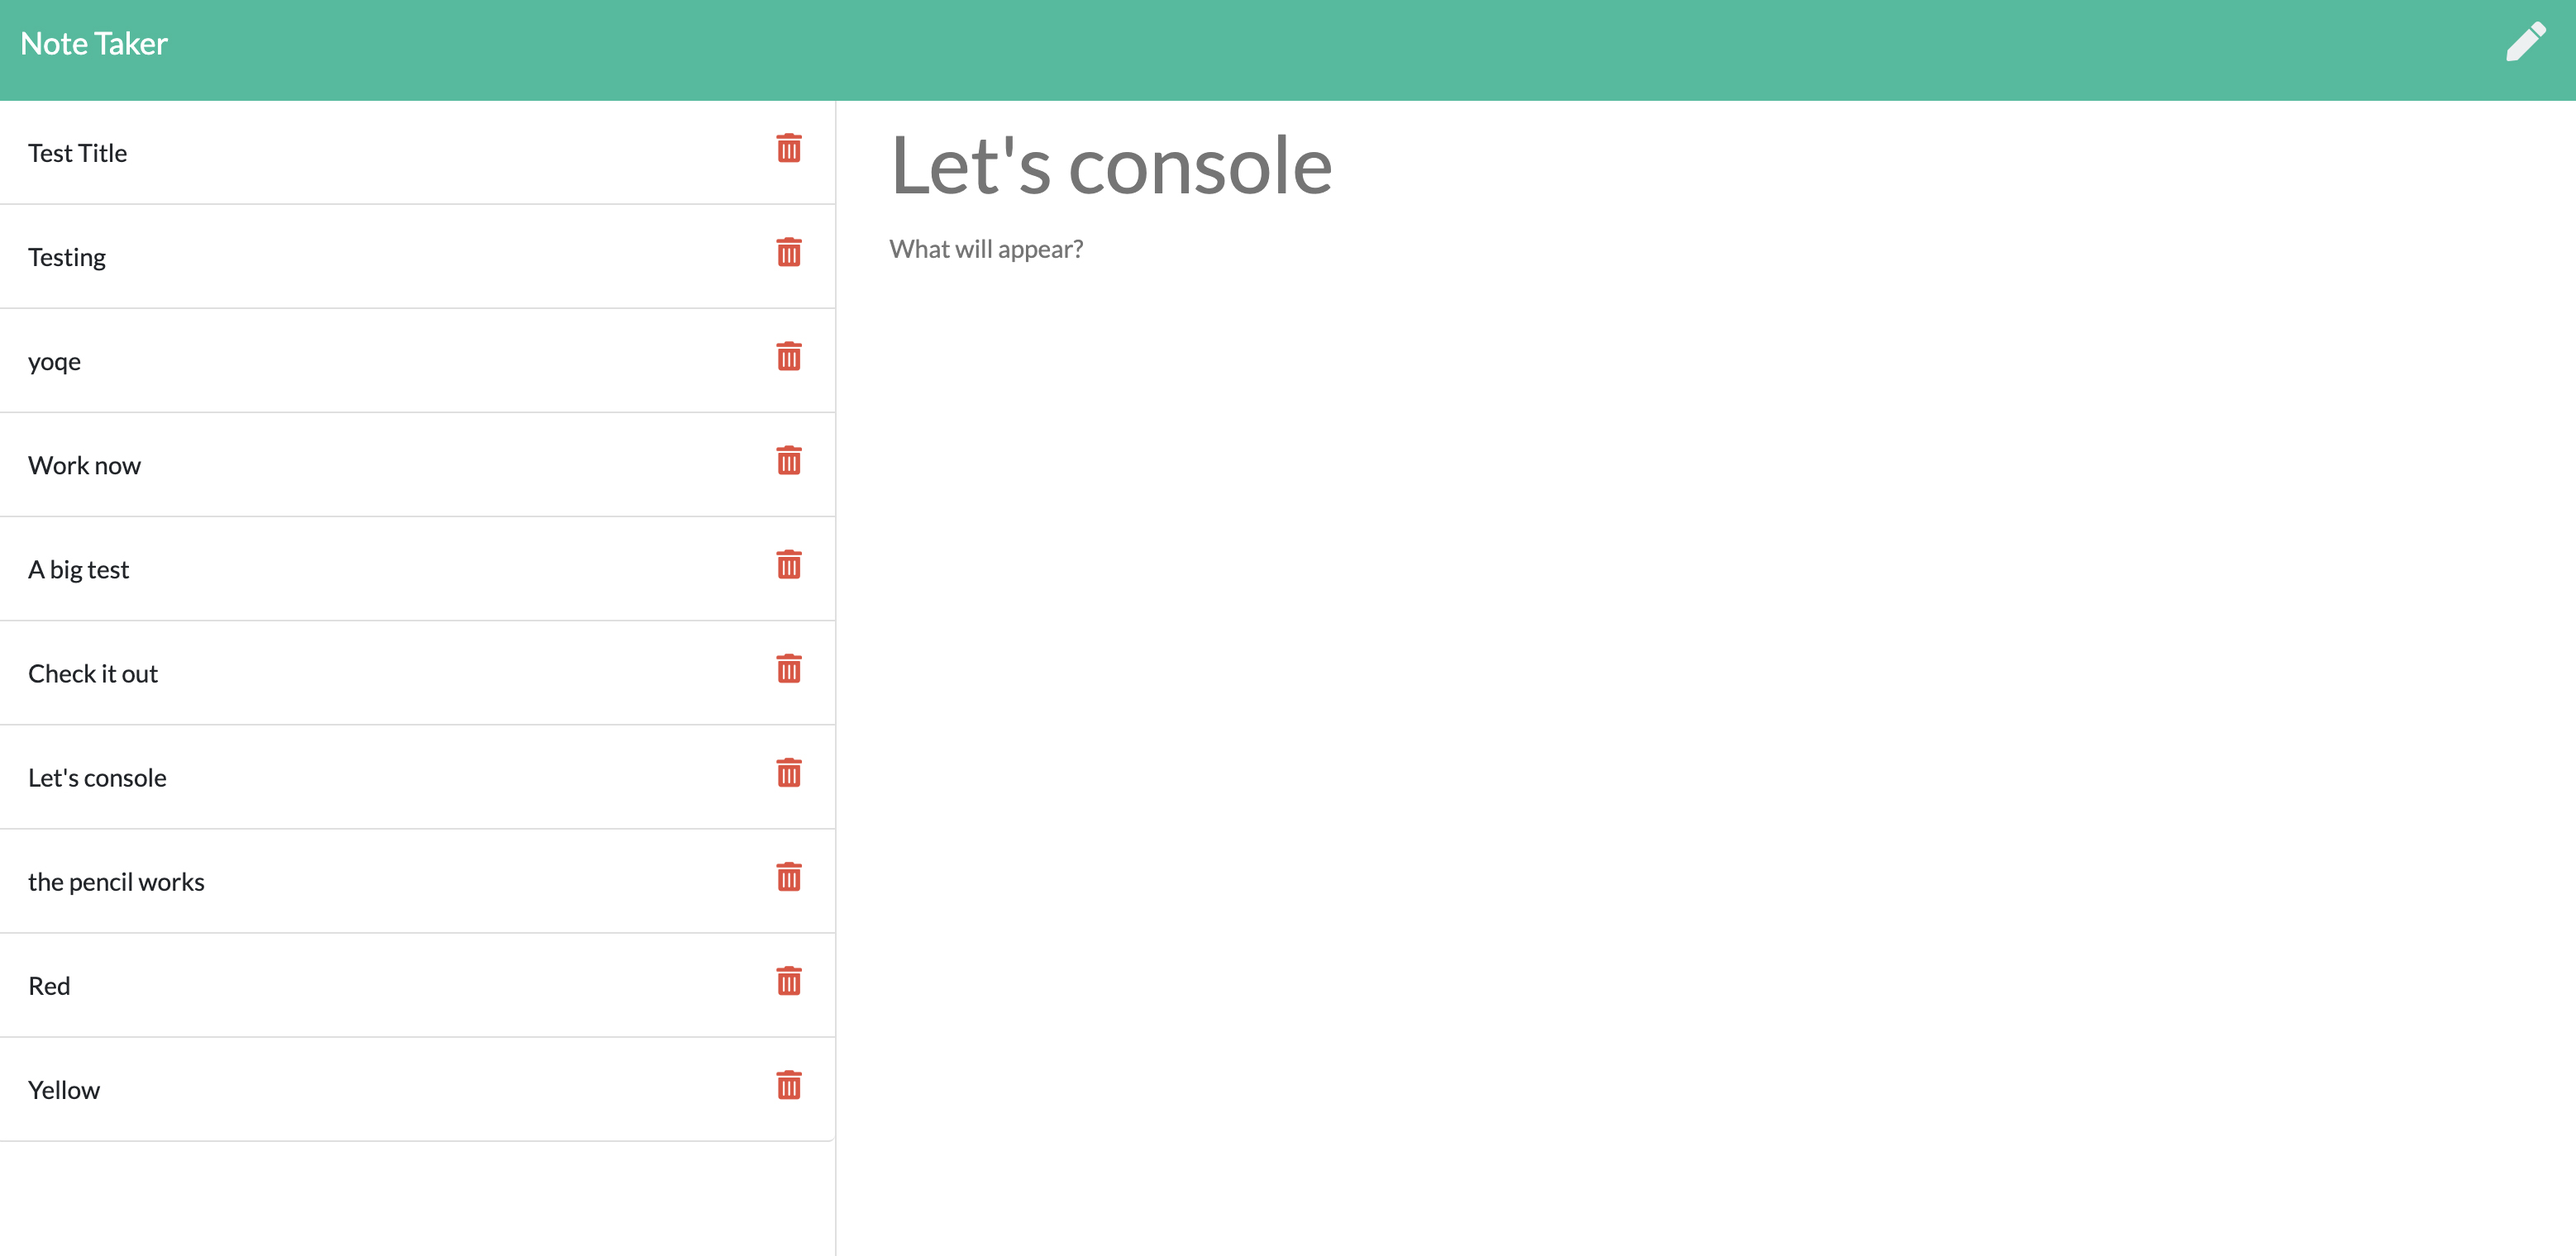
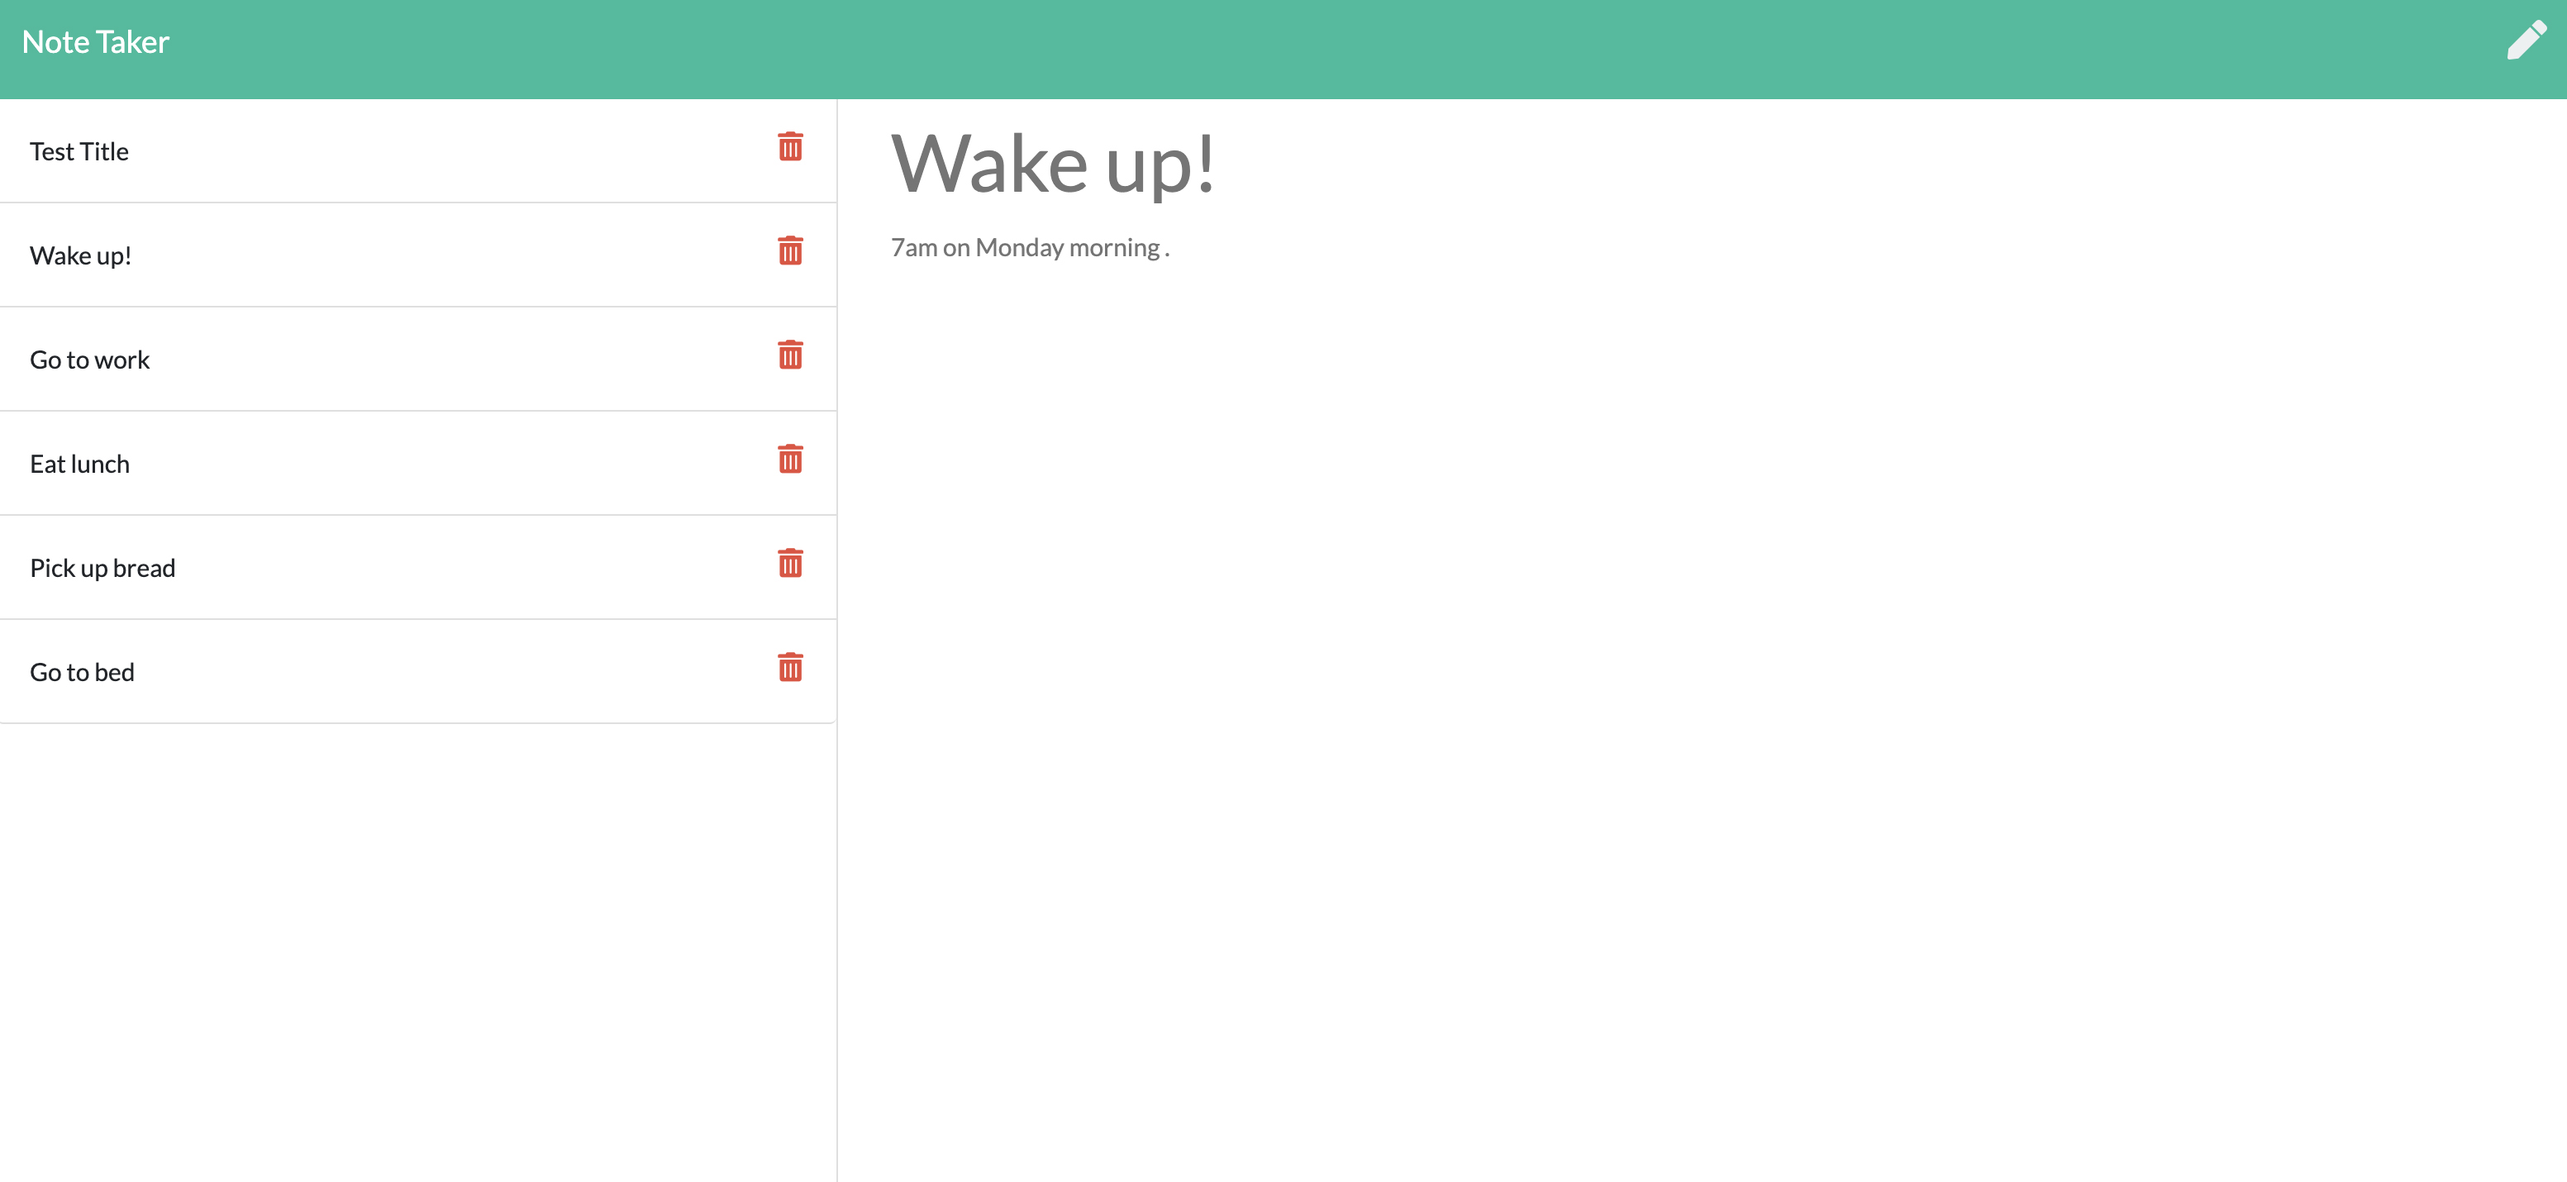
updates to readme and db.json

diff --git a/routes/apiRoutes.js b/routes/apiRoutes.js
@@ -36,27 +36,38 @@ router.post("/notes", (req, res) => {
 
 // deletes data
 
-// router.delete("/:id", (req, res) => {
-//         fs.readFile ("db/db.json", "UTF-8", (err, data) => {
-//         if (err) {
-//             throw err
-//         }
+router.delete("/notes/:id", (req, res) => {
+    fs.readFile ("db/db.json", "UTF-8", (err, data) => {
+        if (err) {
+            throw err
+        }
 
-//         const notes = JSON.parse (data);
-//         const note = req.body
-//         note.id = uuidv4()
-//         notes.splice(note.id)
+        // filter data to get notes except the one to delete
+        const noMoreID = req.params.id;
+        const notes = JSON.parse (data);
+        const note = req.body
+        // note.id = uuidv4()
+        newNote = notes.splice(noMoreID, 1)
+        idTarget()
+        console.log(noMoreID, 0)
+        // console.log(note.id, notes, note)
 
-//         fs.writeFile ("db/db.json", JSON.stringify(note.id), (err, data) => {
-//             if (err) {
-//                 res.json(err);
-//             } 
-//         res.json(note) 
+        // Write new data to 'db.json' file
+        fs.writeFile ("db/db.json", JSON.stringify(notes), (err) => {
+            if (err) {
+                res.json(err);
+            } 
 
-//     })
-// });
-// });
+        // Send response
+        res.json(notes)
 
-
+    })
+    function idTarget() {
+        for (i = 0; i < notes.length; i ++) {
+            notes[i].id = i;
+        }
+    }
+});
+});
 
 module.exports  = router;

diff --git a/README.md b/README.md
@@ -1,9 +1,9 @@
 # onPoint Note Taking
 ## by Aaron Rosenblatt
 
-#### I wrote code using Express.js back end to create a note taking application that saves and retrieves data from a JSON file. I created the back end by connecting an already created front end. The back end includes newly created HTML and API routes. The HTML routes return the notes.html and index.html files. The API routes include a GET that reads the db.json file and returns all saved notes as JSON. Also, the API routes has a POST receives a new note to save on the request body, adds it to the db.json file, and then returns the new note to the client. When the API route returns the new note to the client, it gives each note a unique id when it is saved. 
+#### I wrote code using Express.js back end to create a note taking application that saves and retrieves data from a JSON file. I created the back end by connecting an already created front end. The back end includes newly created HTML and API routes. The HTML routes return the notes.html and index.html files. The API routes include a GET that reads the db.json file and returns all saved notes as JSON. Also, the API routes has a POST that receives a new note to save on the request body, adds it to the db.json file, and then returns the new note to the client. When the API route returns the new note to the client, it gives each note a unique id when it is saved. There is also DELETE route so the user can delete a task by clicking on the Trash Can icon.
 
-#### When the user opens onPoint Note Taking, a landing page appears with a link to a notes page. Clicking on the link takes the user to a page with existing notes listed in the left-hand column, plus empty fields to enter a new note title and the note’s text in the right-hand column. When the user enters text into the note's title and text field, a Save icon appears in the navigation at the top of the page. Clicking on the Save icon allows the newly entered note to save and appear in the left-hand column with the other existing notes. If the user clicks on an existing note in the list in the left-hand column then that note appears in the right-hand column. Finally, if the user clicks on the Write icon in the navigation at the top of the page, empty fields to enter a new note title and the note’s text will appear in the right-hand column.
+#### When the user opens onPoint Note Taking, a landing page appears with a link to a notes page. Clicking on the link takes the user to a page with existing notes listed in the left-hand column, plus empty fields to enter a new note title and the note’s text in the right-hand column. When the user enters text into the note's title and text field, a Save icon appears in the navigation at the top of the page. Clicking on the Save icon allows the newly entered note to save and appear in the left-hand column with the other existing notes. If the user clicks on an existing note in the list in the left-hand column then that note appears in the right-hand column. Finally, if the user clicks on the Write icon in the navigation at the top of the page, empty fields to enter a new note title and text will appear in the right-hand column.
 
 ### The onPoint Note Taking app can be viewed and used here: https://rosenblatt-onpoint-notetaking.herokuapp.com/   
 
